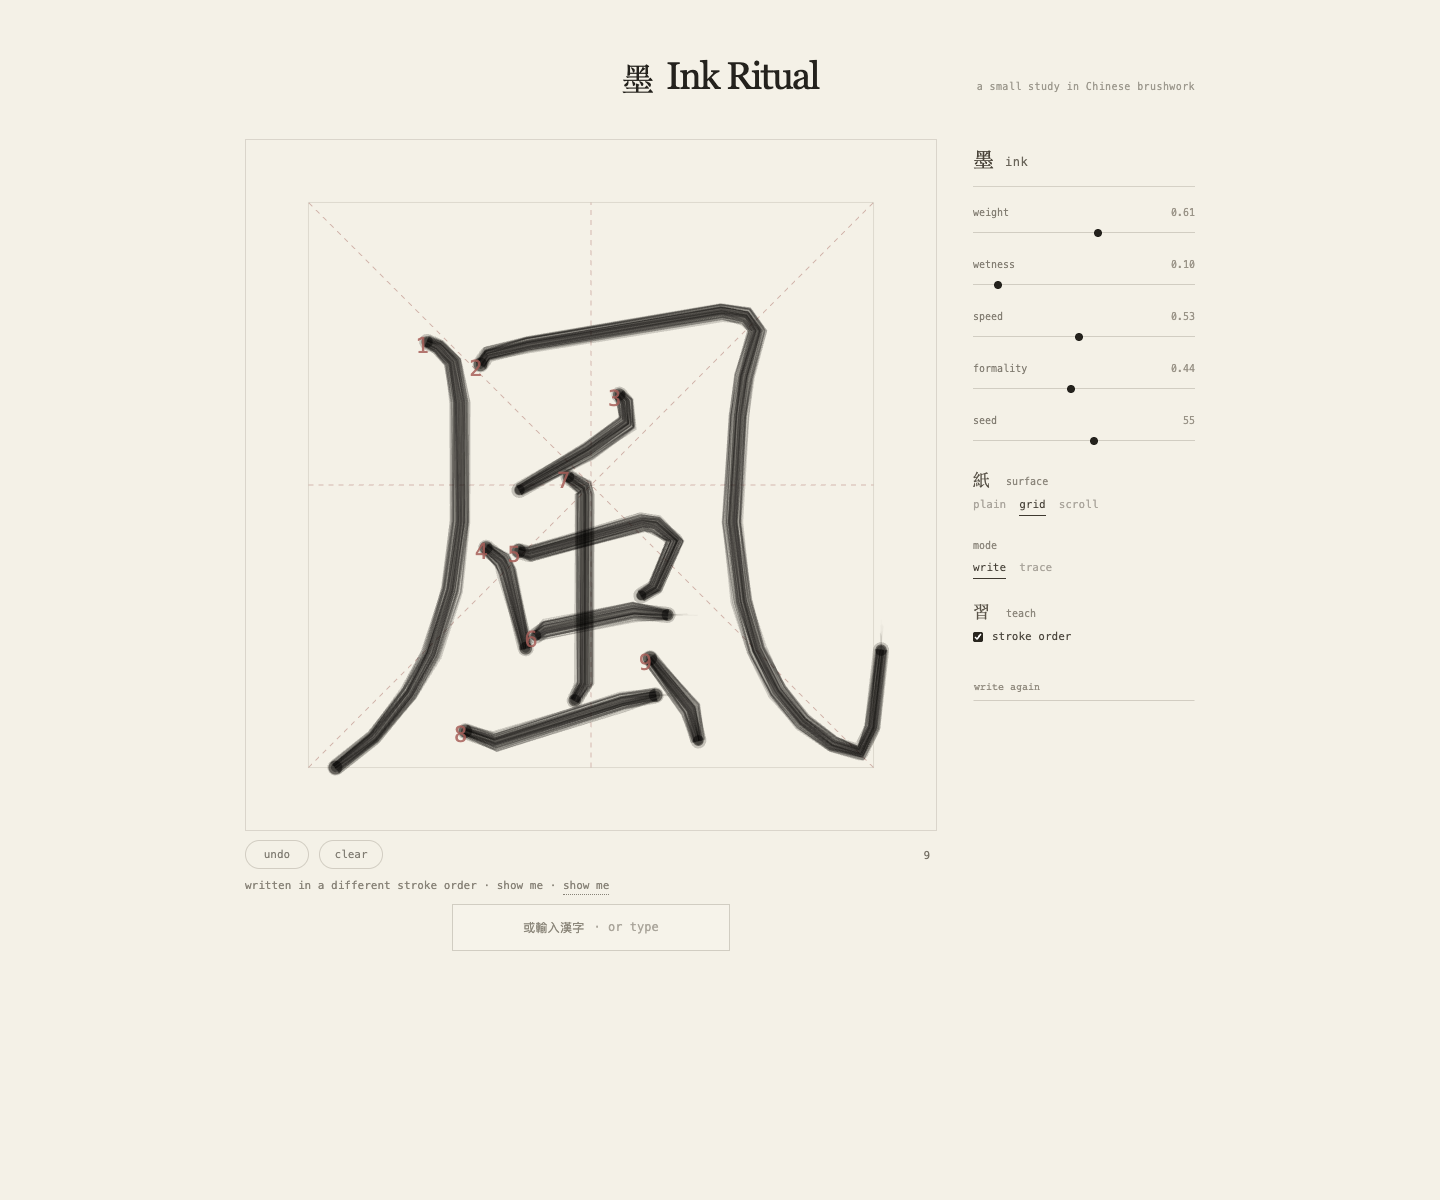
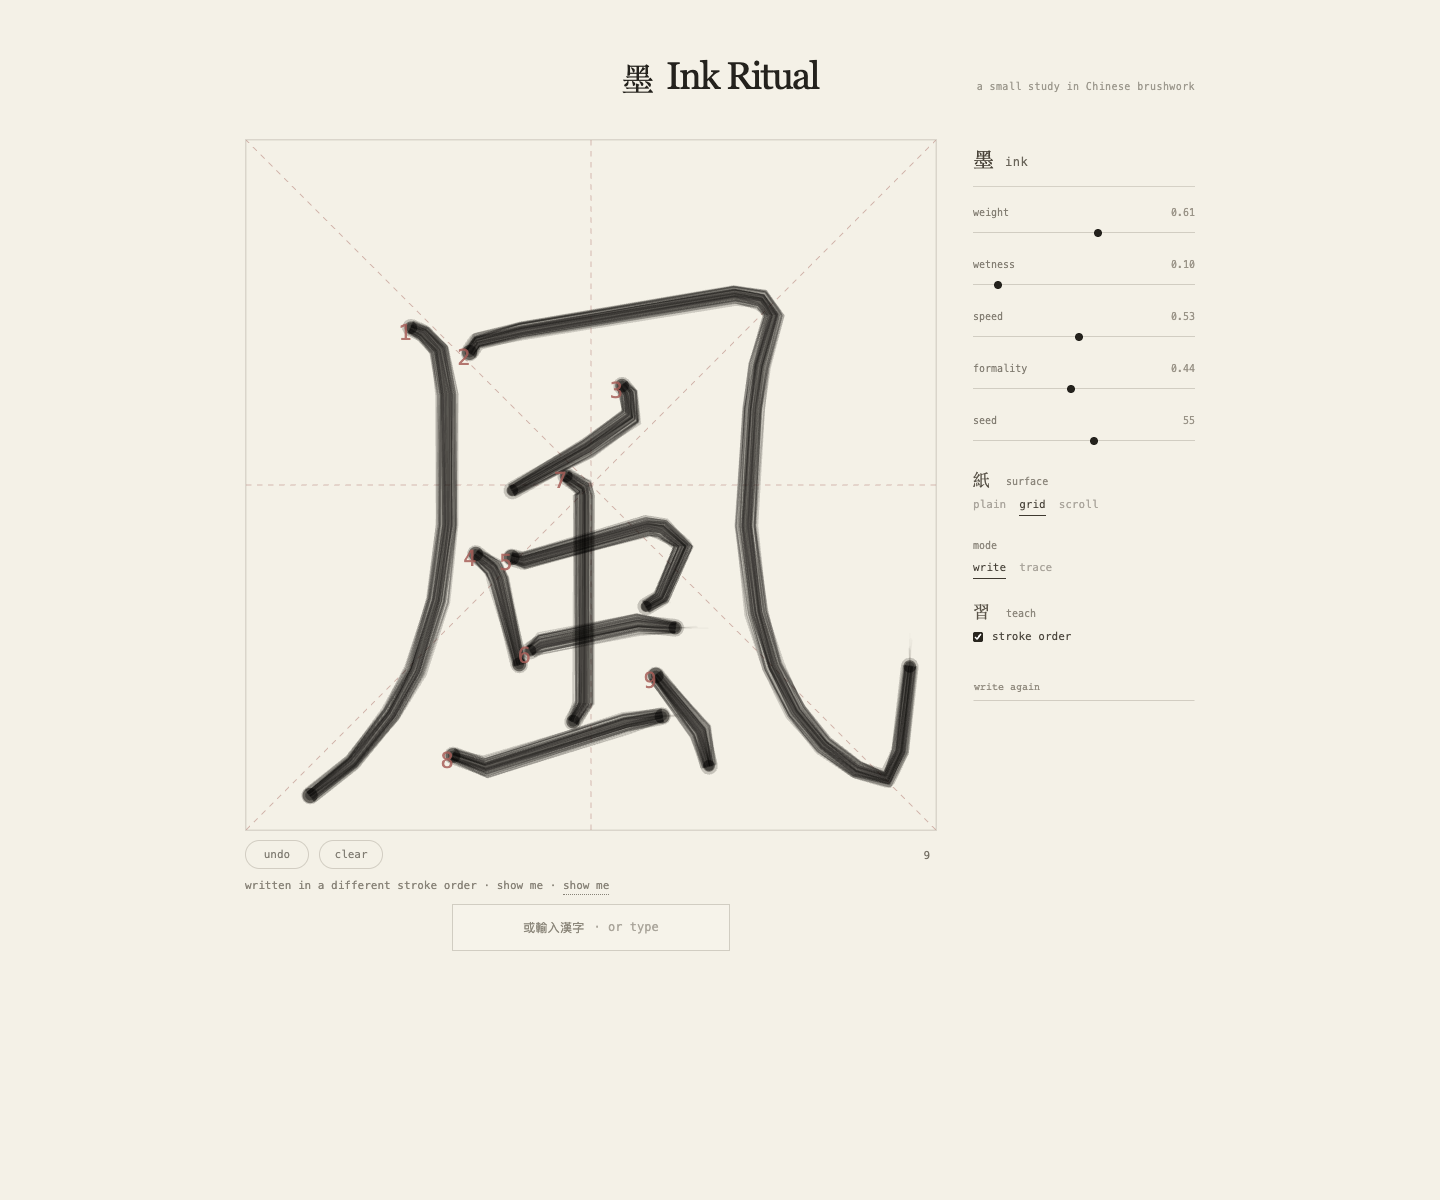
Align practice grid with canvas frame

Changed region(s): [[0.25, 0.2158, 0.6562, 0.6783], [0.1875, 0.6167, 0.25, 0.6783]]

diff --git a/app/ink-client.tsx b/app/ink-client.tsx
@@ -32,8 +32,8 @@ const INITIAL_SETTINGS: BrushSettings = {
 };
 
 const CANVAS_UNITS = 1000;
-const GUIDE_MIN = 50;
-const GUIDE_SIZE = 900;
+const GUIDE_MIN = 0;
+const GUIDE_SIZE = 1000;
 const GUIDE_MAX = GUIDE_MIN + GUIDE_SIZE;
 
 function clamp(value: number, min = 0, max = 1) {
@@ -309,7 +309,7 @@ export default function InkPage() {
     ctx.fillStyle = "#f4f1e7";
     ctx.fillRect(0, 0, width, height);
 
-    const board = Math.min(width, height) * 0.91;
+    const board = Math.min(width, height);
     const offsetX = (width - board) / 2;
     const offsetY = (height - board) / 2;
     ctx.save();
@@ -406,7 +406,7 @@ export default function InkPage() {
     const canvas = canvasRef.current;
     if (!canvas) return null;
     const rect = canvas.getBoundingClientRect();
-    const board = Math.min(rect.width, rect.height) * 0.91;
+    const board = Math.min(rect.width, rect.height);
     const offsetX = (rect.width - board) / 2;
     const offsetY = (rect.height - board) / 2;
     const x = ((event.clientX - rect.left - offsetX) / board) * CANVAS_UNITS;
